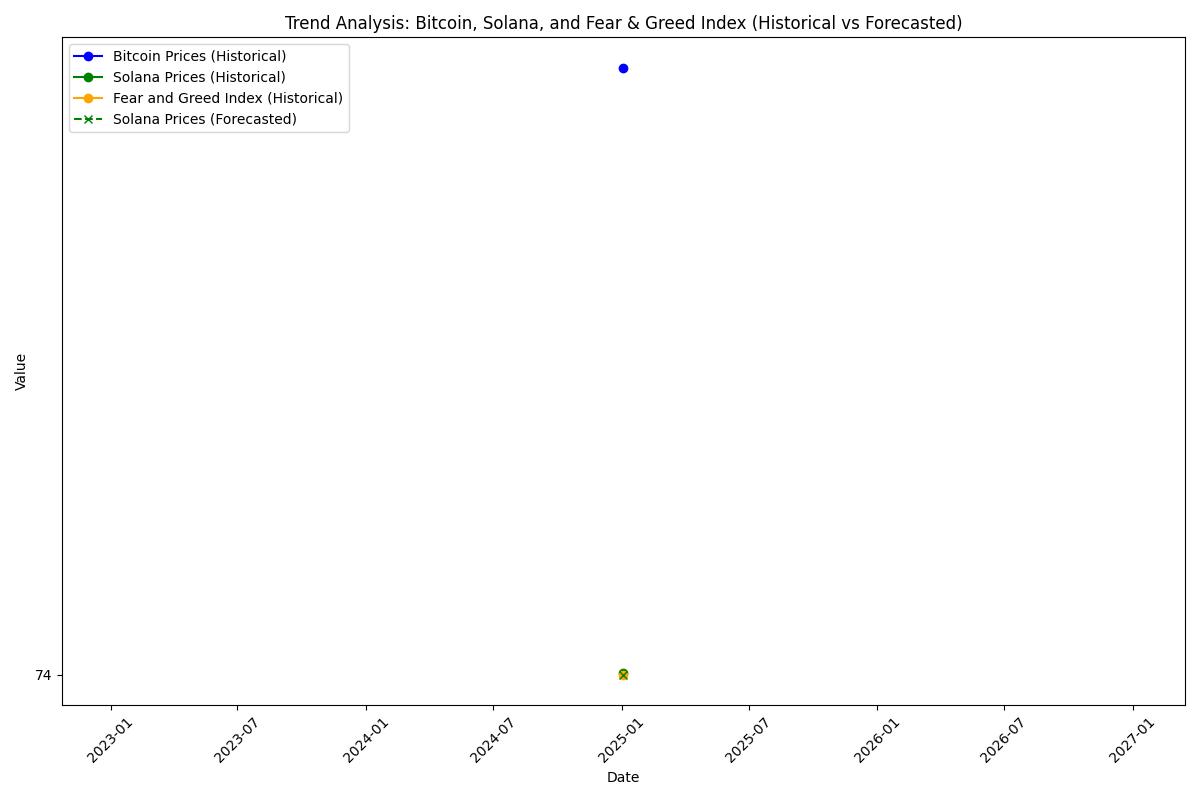
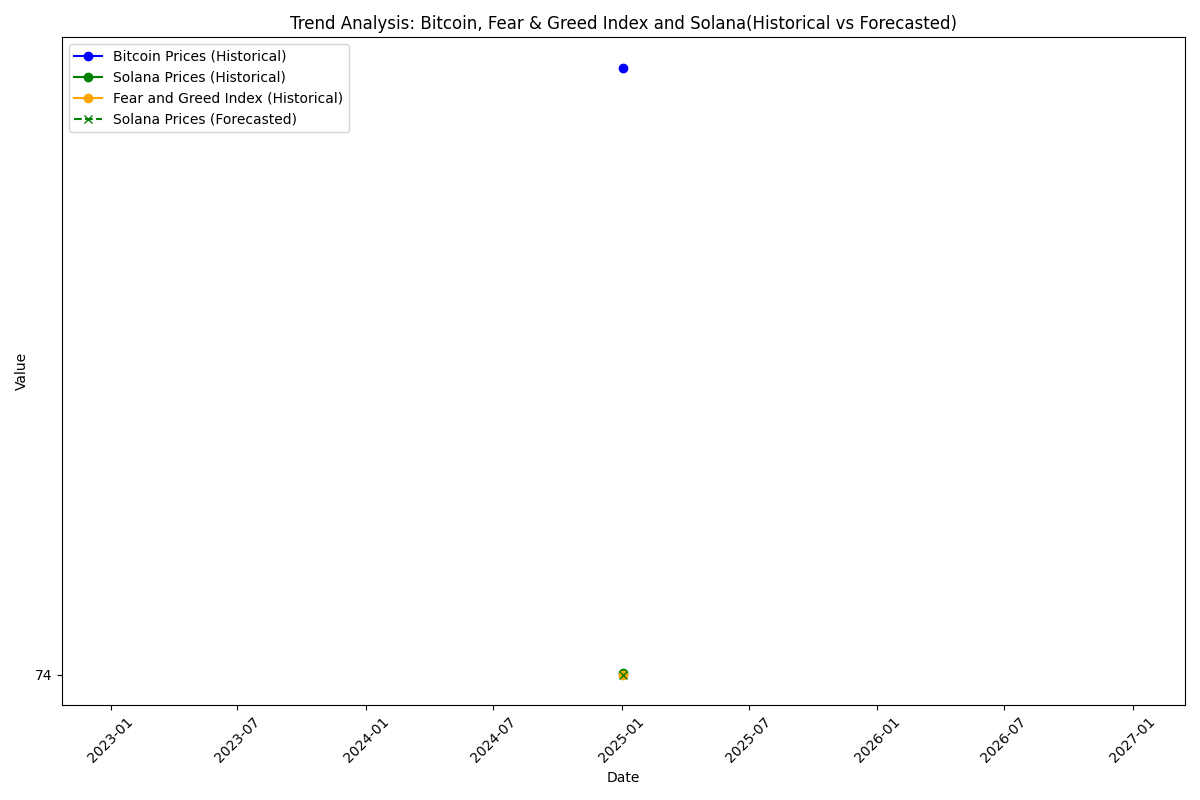
small changes

Changed region(s): [[0.2467, 0.0, 0.8017, 0.0625]]

diff --git a/utils.py b/utils.py
@@ -200,7 +200,7 @@ def plot_trend_analysis(df, file_path):
     plt.plot(df['date'], df["solana_open_pred"], label='Solana Prices (Forecasted)', color='green', linestyle='--', marker='x')
 
     # Customizing the plot
-    plt.title("Trend Analysis: Bitcoin, Solana, and Fear & Greed Index (Historical vs Forecasted)")
+    plt.title("Trend Analysis: Bitcoin, Fear & Greed Index and Solana(Historical vs Forecasted)")
     plt.xlabel("Date")
     plt.ylabel("Value")
     plt.xticks(rotation=45)
